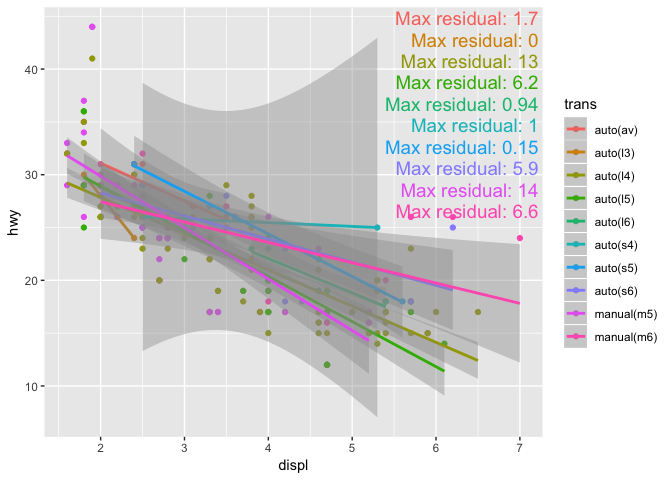
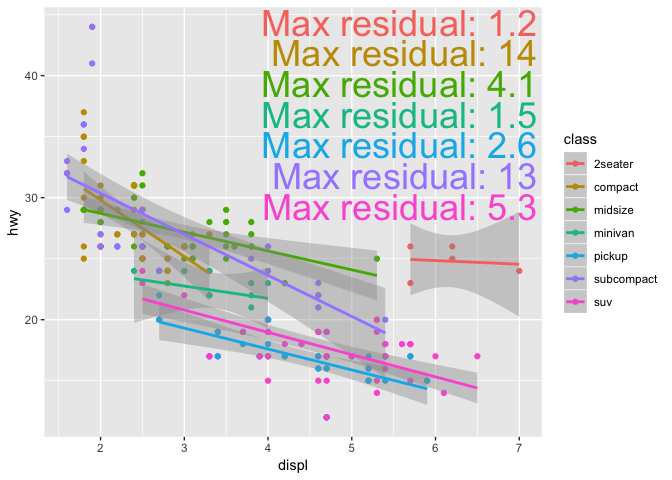
Add region option to set annotation region

diff --git a/README.md b/README.md
@@ -43,9 +43,8 @@ Faceting is also supported.
 ggplot(mpg, aes(x = displ, y = hwy)) +
   geom_point() +
   geom_smooth(method = "lm") +
-  geom_lmannotate(facet_mode = TRUE) +
+  geom_lmannotate() +
   facet_wrap(~ class)
-#> Warning: Ignoring unknown parameters: facet_mode
 ```
 
 <img src="man/figures/README-unnamed-chunk-3-1.png" width="100%" />
@@ -60,11 +59,39 @@ object (the output of `lm()`) is available inside the glue expression as
 the variable `model`. For example:
 
 ``` r
-ggplot(mpg, aes(x = displ, y = hwy, colour = trans)) +
+ggplot(mpg, aes(x = displ, y = hwy, colour = class)) +
   geom_point() +
   geom_smooth(method = "lm") +
   geom_lmannotate(glue_exp = "Max residual: {signif(max(model$residuals), 2)}")
-#> Warning in qt((1 - level)/2, df): NaNs produced
 ```
 
 <img src="man/figures/README-unnamed-chunk-4-1.png" width="100%" />
+
+# Customising the annotation placement
+
+To change the region of the plot area in which annotations will be
+drawn, use the `region` argument to `geom_lmannotate()`. It takes a
+named numeric vector with elements ‘xmin’, ‘xmax’, ‘ymin’ and ‘ymax’,
+all scaled between 0 and 1, to define the region.
+
+The vertical and horizontal aliment of the text within the region can be
+set with `place`. It accepts the following values: “right”,
+“bottomright”, “bottom”, “bottomleft”, “left”, “topleft”, “top”, and
+“centre|center|middle”.
+
+``` r
+ggplot(mpg, aes(x = hwy, y = cty, colour = class)) +
+  geom_point() +
+  geom_smooth(method = "lm") +
+  geom_lmannotate(
+    region = c(xmin = 0, xmax = 0.75, ymin = 0.75, ymax = 1),
+    place = "topleft"
+  )
+```
+
+<img src="man/figures/README-unnamed-chunk-5-1.png" width="100%" />
+
+The annotation text layout can be further tweaked with the `min.size`,
+`grow` and `reflow` options. See the [ggfittext
+package](https://github.com/wilkox/ggfittext) for full details on these
+options.
